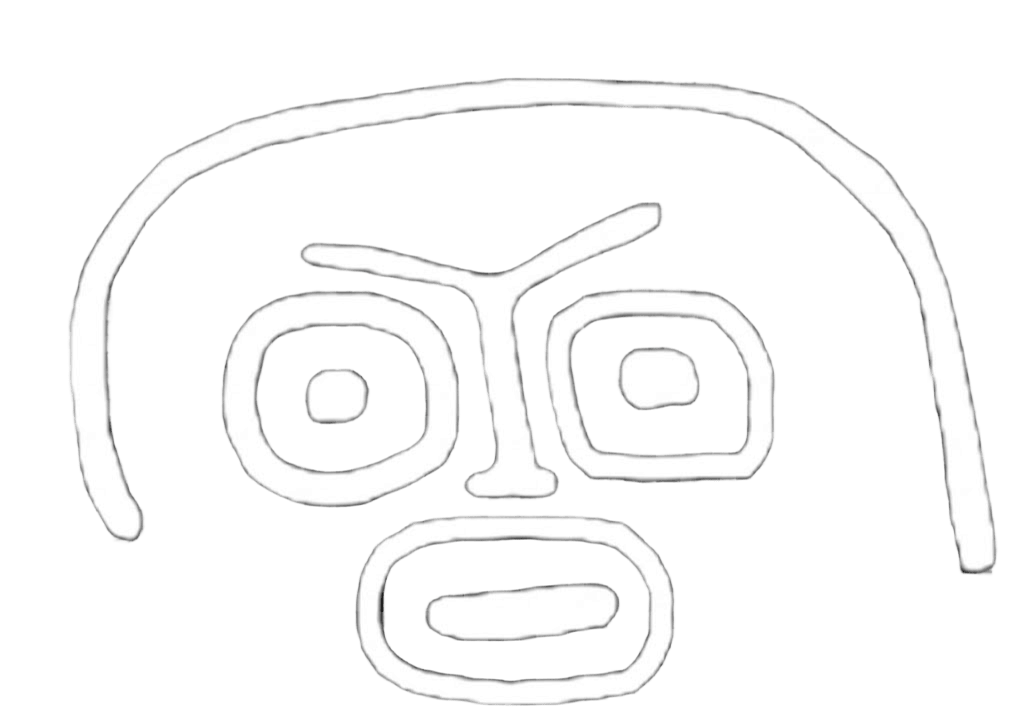
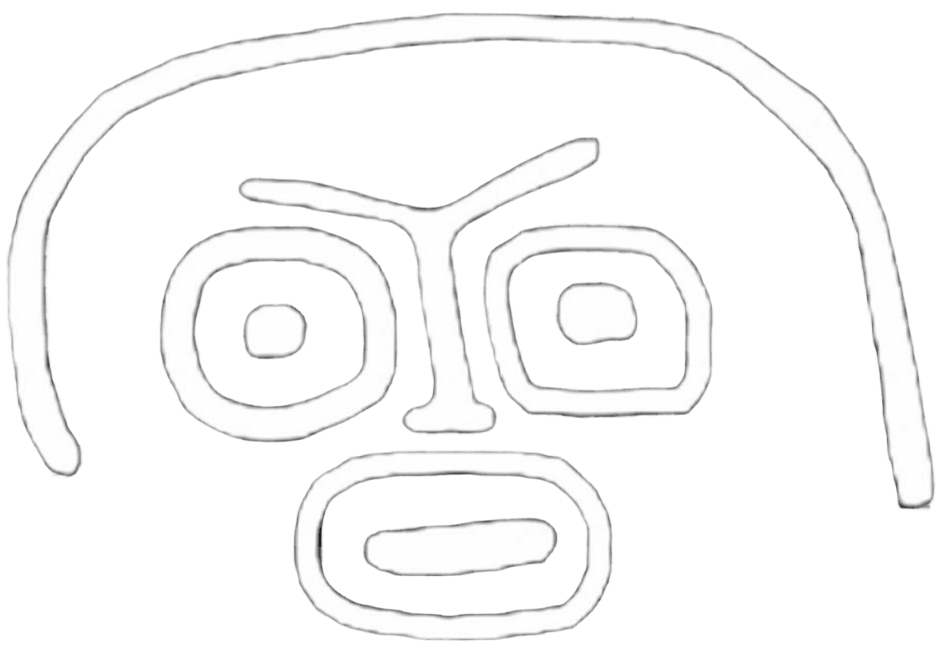
ajuste de tamano iconos

diff --git a/frontend/index.html b/frontend/index.html
@@ -201,10 +201,71 @@
       }
     }
 
-    .hero__imagen-wrapper-fluid img {
+    /* Composición dinámica de 4 íconos */
+    .hero__compo {
+      position: relative;
+      width: 100%;
+      aspect-ratio: 1; /* Cuadrado perfecto */
+      margin-top: 1rem;
+    }
+    
+    .hero__compo-img {
+      position: absolute;
+      width: 48%; /* Tamaño considerable */
+      aspect-ratio: 1;
       border-radius: 1.5rem;
-      box-shadow: 0 20px 80px rgba(0, 0, 0, 0.7), 0 0 60px rgba(140, 115, 85, 0.15);
-      border: 1px solid rgba(140, 115, 85, 0.20);
+      box-shadow: 0 15px 35px rgba(0,0,0,0.5), 0 0 20px rgba(140, 115, 85, 0.15);
+      border: 1px solid rgba(140, 115, 85, 0.25);
+      background: rgba(255, 255, 255, 0.95);
+      backdrop-filter: blur(10px);
+      object-fit: contain;
+      padding: 1.5rem;
+      transition: transform 0.5s cubic-bezier(0.34, 1.56, 0.64, 1), box-shadow 0.5s;
+      animation: flotar-lento ease-in-out infinite alternate;
+    }
+
+    .hero__compo-img:hover {
+      box-shadow: 0 25px 50px rgba(0,0,0,0.7), 0 0 40px rgba(140, 115, 85, 0.3);
+      z-index: 10 !important;
+      animation-play-state: paused;
+      /* Al hacer hover, se levantan sutilmente usando scale y un translateY adicional */
+      transform: translateY(calc(var(--base-y, 0) - 15px)) rotate(calc(var(--rotacion, 0deg) + 2deg)) scale(1.05) !important;
+    }
+
+    .hero__compo-img--1 {
+      top: 0; left: 0;
+      --rotacion: -4deg;
+      --base-y: 0px;
+      animation-duration: 5s;
+      z-index: 2;
+    }
+    .hero__compo-img--2 {
+      top: 10%; right: 0;
+      --rotacion: 6deg;
+      --base-y: 0px;
+      animation-duration: 6.5s;
+      animation-direction: alternate-reverse;
+      z-index: 1;
+    }
+    .hero__compo-img--3 {
+      bottom: 0; left: 5%;
+      --rotacion: 3deg;
+      --base-y: 0px;
+      animation-duration: 7s;
+      z-index: 3;
+    }
+    .hero__compo-img--4 {
+      bottom: 15%; right: 10%;
+      --rotacion: -5deg;
+      --base-y: 0px;
+      animation-duration: 5.5s;
+      animation-direction: alternate-reverse;
+      z-index: 4;
+    }
+
+    @keyframes flotar-lento {
+      0% { transform: translateY(0) rotate(var(--rotacion)); }
+      100% { transform: translateY(-12px) rotate(var(--rotacion)); }
     }
 
     .hero__imagen-badge {
@@ -461,7 +522,12 @@
 
       <!-- Imagen decorativa derecha fluida -->
       <div class="hero__imagen-wrapper-fluid" aria-hidden="true" style="flex: 0 1 450px;">
-        <img src="assets/img/petroglifo-01.png" alt="" loading="lazy">
+        <div class="hero__compo">
+          <img src="assets/img/cabezon.png" class="hero__compo-img hero__compo-img--1" alt="Petroglifo 1" loading="lazy">
+          <img src="assets/img/cara.png" class="hero__compo-img hero__compo-img--2" alt="Petroglifo 2" loading="lazy">
+          <img src="assets/img/diosa.png" class="hero__compo-img hero__compo-img--3" alt="Petroglifo 3" loading="lazy">
+          <img src="assets/img/machete (1).png" class="hero__compo-img hero__compo-img--4" alt="Petroglifo 4" loading="lazy">
+        </div>
         <div class="hero__imagen-badge">
           <span class="hero__imagen-badge-icon"></span>
           <div>